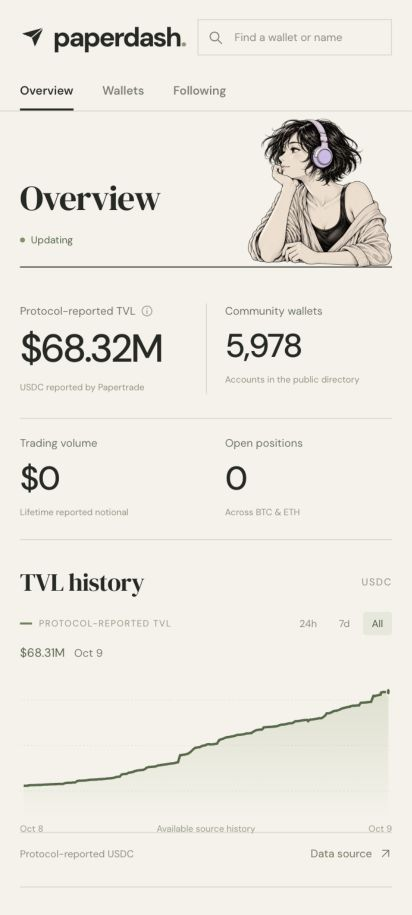
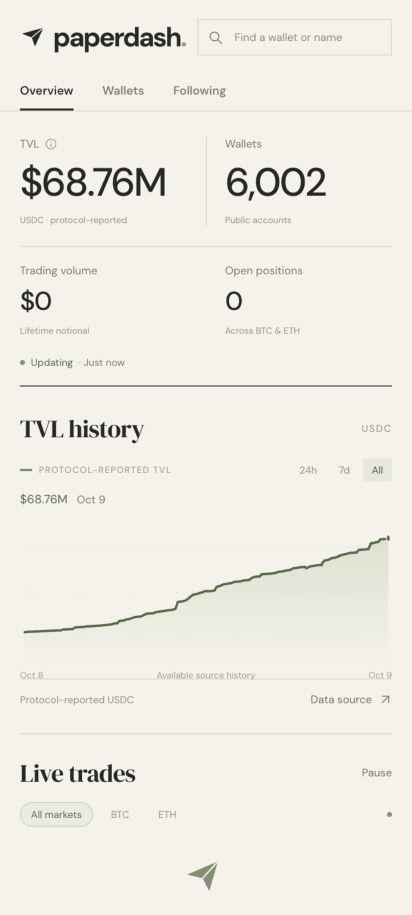
Lead dashboard with TVL and wallet metrics

diff --git a/apps/web/src/App.tsx b/apps/web/src/App.tsx
@@ -724,17 +724,45 @@ function App() {
         </div>
       </header>
       <main id="main" className="page-shell">
-        <div
-          className={`dashboard-masthead ${section !== "overview" ? "compact" : ""}`}
-        >
-          <div>
-            <h1>
-              {section === "overview"
-                ? "Overview"
-                : section === "following"
-                  ? "Following"
-                  : "Wallets"}
-            </h1>
+        <h1 className="sr-only">Papertrade analytics</h1>
+        <section className="overview-board" aria-label="Protocol overview">
+          <div className="metrics-row">
+            <div className="metric metric-primary">
+              <span className="metric-label">
+                TVL{" "}
+                <button
+                  aria-label="How TVL is sourced"
+                  onClick={() => setInfo(true)}
+                >
+                  <Icon name="circle" size={13} />
+                </button>
+              </span>
+              <strong className={!summary ? "skeleton-text" : ""}>
+                {formatUsd(tvl, true)}
+              </strong>
+              <span className="metric-note">USDC · protocol-reported</span>
+            </div>
+            <div className="metric metric-primary">
+              <span className="metric-label">Wallets</span>
+              <strong>
+                {data?.accountCount?.toLocaleString("en-US") ?? "—"}
+              </strong>
+              <span className="metric-note">Public accounts</span>
+            </div>
+            <div className="metric">
+              <span className="metric-label">Trading volume</span>
+              <strong>{formatRawUsd(summary?.activity.volume, true)}</strong>
+              <span className="metric-note">Lifetime notional</span>
+            </div>
+            <div className="metric">
+              <span className="metric-label">Open positions</span>
+              <strong>
+                {summary?.activity.open.toLocaleString("en-US") ?? "—"}
+              </strong>
+              <span className="metric-note">Across BTC & ETH</span>
+            </div>
+          </div>
+          <div className="board-status">
             <span className={`freshness ${sourceOld ? "stale" : ""}`}>
               <i />
               {!data
@@ -747,57 +775,6 @@ function App() {
                 · {relativeTime(data?.status.sourceAt)}
               </span>
             </span>
-          </div>
-          {section === "overview" && (
-            <img
-              className="divider-character"
-              src="/art/observer-cutout.webp"
-              alt=""
-              width="640"
-              height="662"
-              fetchPriority="high"
-            />
-          )}
-        </div>
-
-        <section className="overview-board" aria-label="Protocol overview">
-          <div className="metrics-row">
-            <div className="metric metric-primary">
-              <span className="metric-label">
-                Protocol-reported TVL{" "}
-                <button
-                  aria-label="How TVL is sourced"
-                  onClick={() => setInfo(true)}
-                >
-                  <Icon name="circle" size={13} />
-                </button>
-              </span>
-              <strong className={!summary ? "skeleton-text" : ""}>
-                {formatUsd(tvl, true)}
-              </strong>
-              <span className="metric-note">USDC reported by Papertrade</span>
-            </div>
-            <div className="metric">
-              <span className="metric-label">Community wallets</span>
-              <strong>
-                {data?.accountCount?.toLocaleString("en-US") ?? "—"}
-              </strong>
-              <span className="metric-note">
-                Accounts in the public directory
-              </span>
-            </div>
-            <div className="metric">
-              <span className="metric-label">Trading volume</span>
-              <strong>{formatRawUsd(summary?.activity.volume, true)}</strong>
-              <span className="metric-note">Lifetime reported notional</span>
-            </div>
-            <div className="metric">
-              <span className="metric-label">Open positions</span>
-              <strong>
-                {summary?.activity.open.toLocaleString("en-US") ?? "—"}
-              </strong>
-              <span className="metric-note">Across BTC & ETH</span>
-            </div>
           </div>
           {error && (
             <p className="inline-notice" role="status">

diff --git a/apps/web/src/styles.css b/apps/web/src/styles.css
@@ -984,34 +984,6 @@ button svg {
 .table-scroll {
   position: relative;
 }
-.dashboard-masthead {
-  height: 216px;
-  position: relative;
-  display: flex;
-  align-items: flex-end;
-  padding: 0 0 24px;
-}
-.dashboard-masthead h1 {
-  font-family: "DM Serif Display", Georgia, serif;
-  font-size: 43px;
-  font-weight: 400;
-  letter-spacing: -1px;
-  line-height: 1.15;
-  margin: 0 0 11px;
-}
-.dashboard-masthead.compact {
-  height: 128px;
-}
-.divider-character {
-  position: absolute;
-  bottom: -2px;
-  right: 28px;
-  width: 200px;
-  height: auto;
-  pointer-events: none;
-  user-select: none;
-  z-index: 1;
-}
 .overview-board {
   padding-top: 0;
 }
@@ -1434,13 +1406,6 @@ button svg {
   }
 }
 @media (max-width: 850px) {
-  .dashboard-masthead {
-    height: 193px;
-  }
-  .divider-character {
-    width: 179px;
-    right: 15px;
-  }
   .metric-label {
     font-size: 10px;
   }
@@ -1477,22 +1442,6 @@ button svg {
   }
   .wordmark {
     flex-shrink: 0;
-  }
-  .dashboard-masthead {
-    height: 155px;
-    padding-bottom: 19px;
-  }
-  .dashboard-masthead h1 {
-    font-size: 35px;
-    margin-bottom: 9px;
-  }
-  .dashboard-masthead.compact {
-    height: 111px;
-  }
-  .divider-character {
-    width: 144px;
-    right: 0;
-    bottom: -1px;
   }
   .freshness {
     font-size: 10px;
@@ -1537,5 +1486,81 @@ button svg {
   }
   .info-modal {
     padding: 30px;
+  }
+}
+
+/* Lead with useful data directly beneath the navigation. */
+.overview-board {
+  border-top: 0;
+  border-bottom: 1px solid var(--ink);
+  padding: 31px 0 20px;
+}
+.overview-board .metrics-row {
+  grid-template-columns: 1.5fr 1.2fr 1fr 0.85fr;
+  padding-top: 0;
+  align-items: center;
+}
+.overview-board .metric {
+  min-width: 0;
+  gap: 9px;
+}
+.overview-board .metric-label {
+  font-size: 12px;
+  color: var(--muted);
+}
+.overview-board .metric strong {
+  font-size: 32px;
+  line-height: 1.15;
+  margin: 0;
+}
+.overview-board .metric-primary strong {
+  font-size: clamp(42px, 4.2vw, 60px);
+  letter-spacing: -2.5px;
+}
+.board-status {
+  display: flex;
+  justify-content: flex-end;
+  margin-top: 18px;
+  min-height: 14px;
+}
+@media (max-width: 850px) {
+  .overview-board .metric-primary strong {
+    font-size: 42px;
+    letter-spacing: -1.9px;
+  }
+  .overview-board .metric strong {
+    font-variant-numeric: tabular-nums;
+  }
+  .overview-board .metric:not(.metric-primary) strong {
+    font-size: 28px;
+  }
+  .overview-board .metric-label {
+    font-size: 11px;
+  }
+}
+@media (max-width: 650px) {
+  .overview-board {
+    padding: 25px 0 16px;
+  }
+  .overview-board .metrics-row {
+    grid-template-columns: 1fr 1fr;
+    row-gap: 20px;
+  }
+  .overview-board .metric-primary strong {
+    font-size: clamp(35px, 9.6vw, 48px);
+  }
+  .overview-board .metric:not(.metric-primary) strong {
+    font-size: 26px;
+    letter-spacing: -1px;
+  }
+  .overview-board .metric:nth-child(n + 3) {
+    padding-top: 16px;
+  }
+  .board-status {
+    justify-content: flex-start;
+    margin-top: 18px;
+  }
+  .board-status .freshness-time {
+    display: inline;
   }
 }

diff --git a/docs/ARTWORK.md b/docs/ARTWORK.md
@@ -8,11 +8,11 @@ Use case: illustration-story. Asset type: original editorial banner artwork for 
 
 ## Display
 
-The artwork is decorative context for the community, never a depiction of a real wallet owner. Financial content remains live HTML, with no values baked into the image. The original banner is retained as a source asset. The active decorative cutout has an empty alternative so it does not interrupt screen-reader navigation, and neither image uses continuous animation.
+The artwork is decorative context for the community, never a depiction of a real wallet owner. Financial content remains live HTML, with no values baked into the image. The original banner is retained as a source asset. The decorative cutout used an empty alternative so it did not interrupt screen-reader navigation. Neither retained image is currently rendered by the interface.
 
 ## Divider character
 
-The current interface uses `apps/web/public/art/observer-cutout.webp` (640 × 662, about 120 KB, preserved alpha), created with the built-in image-generation tool using the original banner as its edit target. The character rests on the first data divider; narrative banner copy and the scenery were removed at the user’s request.
+An earlier interface iteration used `apps/web/public/art/observer-cutout.webp` (640 × 662, about 120 KB, preserved alpha), created with the built-in image-generation tool using the original banner as its edit target. That iteration placed the character on the first data divider. The current interface leads with TVL and wallet metrics and does not render the character; the asset is retained for future use.
 
 ### Final edit prompt
 
